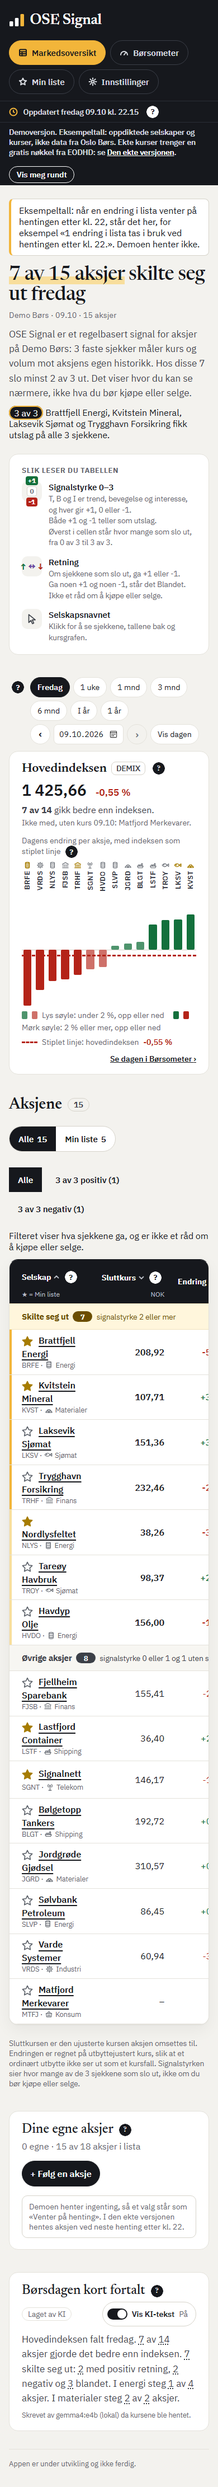
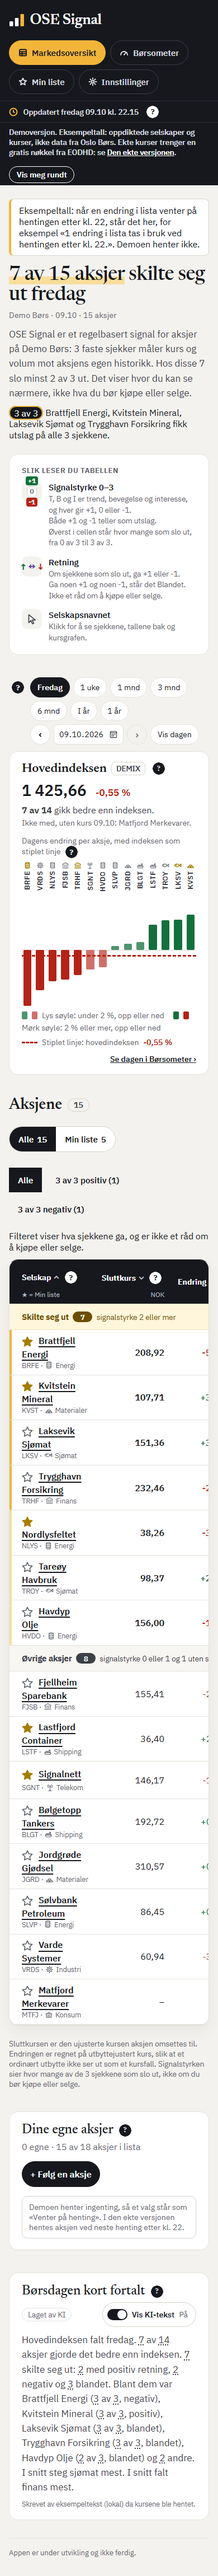
Story 10.10: bildene av aksjesiden og oversikten ved 390 px, og punktene i README-en

diff --git a/tests/test_docker.py b/tests/test_docker.py
@@ -1318,7 +1318,7 @@ HOEYDE_PAA_BILDET = 1864
 # bildene ble tatt paa nytt med DevTools-protokollen, med de samme hoeydene, og var byte for byte de samme.
 # Flettingen av main (2.4, 2.6 og 8.14) inn i 8.21: avtrykkene er regnet ut paa nytt.
 # Flettingen av main (8.7 og 8.9) inn i 8.21: avtrykkene er regnet ut paa nytt.
[2 lines of base64/hex data omitted]
 SLIK_TAS_BILDET = (
     "Oversikten er endret, så skjermbildet viser noe annet enn demoen. Ta "
     f"{SKJERMBILDET} på nytt etter «Bildet» i spesifikasjonen 3.3b: demobasen i en "
@@ -1755,7 +1755,7 @@ HOEYDE_PAA_AKSJESIDEN = 2258
 # «Mine notater», og var byte for byte det samme (gjennomgangen, VG6).
 # Flettingen av main (2.4, 2.6 og 8.14) inn i 8.21: avtrykkene er regnet ut paa nytt.
 # Flettingen av main (8.7 og 8.9) inn i 8.21: avtrykkene er regnet ut paa nytt.
[2 lines of base64/hex data omitted]
 SLIK_TAS_AKSJESIDEN = (
     "Aksjesiden er endret, så bildet av den viser noe annet enn demoen. Ta "
     f"{AKSJESIDEBILDET} på nytt med fremgangsmåten i spesifikasjonen 3.3b, mot /aksje/BRFE: "
@@ -1812,7 +1812,8 @@ DE_NYE_BILDENE = {
     # Flettingen av 2.12 inn i 8.11: 4240, med filteret, «Dine egne aksjer» og «Børsdagen kort fortalt».
     # Story 8.23: 4444, med meldingen øverst, antallet i filteret, «Dine egne aksjer» som tabell
     # og «Vis meg rundt» fra 8.9. Var 4240.
-    "docs/appen/oversikten-390-demo.png": ("/", 390, 4444, MALENE_BAK_BILDET),
+    # Story 10.10: 4602, med navnene og bransjene i «Børsdagen kort fortalt». Var 4444.
+    "docs/appen/oversikten-390-demo.png": ("/", 390, 4602, MALENE_BAK_BILDET),
     # Story 8.20b: 3327, med kortene under hverandre og feltene bredt nok til
     # linja med antallet og snittet, så kartet er høyere. Var 1687.
     # Story 8.23 (tillegg 3): 5021, med tabellen åpen fra start. Var 3327.
@@ -1934,18 +1935,21 @@ DE_NYE_BILDENE = {
 # Flettingen av 8.11 (med 8.10b, svaret kl. 10:23 og main) inn i 8.11b: avtrykkene er regnet ut paa nytt,
 # og alle bildene er tatt paa nytt med DevTools-protokollen, med de samme hoeydene. «Din egen liste» er
 # som i 8.11b (1432 px), og de andre er som i 8.11.
+# Story 10.10: demotekstene i de nye formene, ki_dagen.py, dagsgrunnlag.py, ki_visning.py og
+# hjelpetekster.py. Alle bildene ble tatt paa nytt med DevTools-protokollen. Aksjesiden og oversikten
+# ved 390 px (4602 px) er nye; de andre er byte for byte de samme.
 AVTRYKK_BAK_DE_NYE_BILDENE = {
[20 lines of base64/hex data omitted]
 }
 SLIK_TAS_DE_NYE_BILDENE = (
     "Siden bak {bildet} er endret, så bildet viser noe annet enn demoen. Ta det på nytt som "
@@ -3380,7 +3384,8 @@ class TestReadmeForNybegynnere:
             # Rådets funn 20.10: demoen viser kombinasjonene av de tre sjekkene.
             # Story 3.4h: investorsidene i demoen. Var «... og ki-tekst laget
             # med gemma».
-            "alle 10 fargekombinasjonene av de tre sjekkene, ki-tekst fra gemma og investorsider",
+            # Story 10.10 (spørsmål 6): eksempeltekstene. Var «ki-tekst fra gemma».
+            "alle 10 fargekombinasjonene av de tre sjekkene, eksempeltekster i ki-formene og investorsider",
             # Story 8.16: periodene i kursgrafen er flettet.
             # Story 8.20a (del J): «Vis dagen» ved datoen.
             "periodene i kursgrafen med «vis dagen»",

diff --git a/README.md b/README.md
@@ -100,10 +100,10 @@ Prosjektet er under utvikling. Listene under viser hva som er ferdig på main, o
 - De tre sjekkene, trend, bevegelse og interesse, styrken for hver aksje hver børsdag, også fra 2027, og regelforklaringen på aksjesiden
 - Hentingen: kursene og hovedindeksen fra kl. 22, første gang på dagtid, med børsdagskontroll og forsøk med kallene som er igjen
 - Oversikten og utseendet fra designforslaget og skissene 06.11, med tydeligere merking, hjelp bak «?» og sortering ved klikk i kolonneraden
-- Periodevalget, hovedindeksen over tabellen på forsiden med søylene og som stiplet linje i kursgrafen, og KI-teksten om dagen, med navnene på aksjene som skilte seg ut og bransjene som steg og falt mest i snitt
+- Periodevalget, hovedindeksen over tabellen på forsiden med søylene og som stiplet linje i kursgrafen, og KI-teksten om dagen
 - Periodene i kursgrafen med «Vis dagen», sjekkene, justeringsdagene, signaldagene, datoene og månedsmerkene, lenken til investorsiden og signalet dag for dag
 - Min liste, med stjernen foran hvert selskap, ferdige lister, egne aksjer og «Innstillinger», og børsometeret som et kart, med knappene
-- KI-teksten forklarer sjekkene og mønstrene i korte setninger, fra en lokal modell eller egen nøkkel, med bryter, bare tekster som besto kontrollen
+- KI-teksten forklarer sjekkene og mønstrene, fra en lokal modell eller egen nøkkel, med bryter, bare tekster som besto kontrollen
 - Docker for begge versjonene, og demoen med alle 10 fargekombinasjonene av de tre sjekkene, eksempeltekster i KI-formene og investorsider
 
 **Neste i v1**
